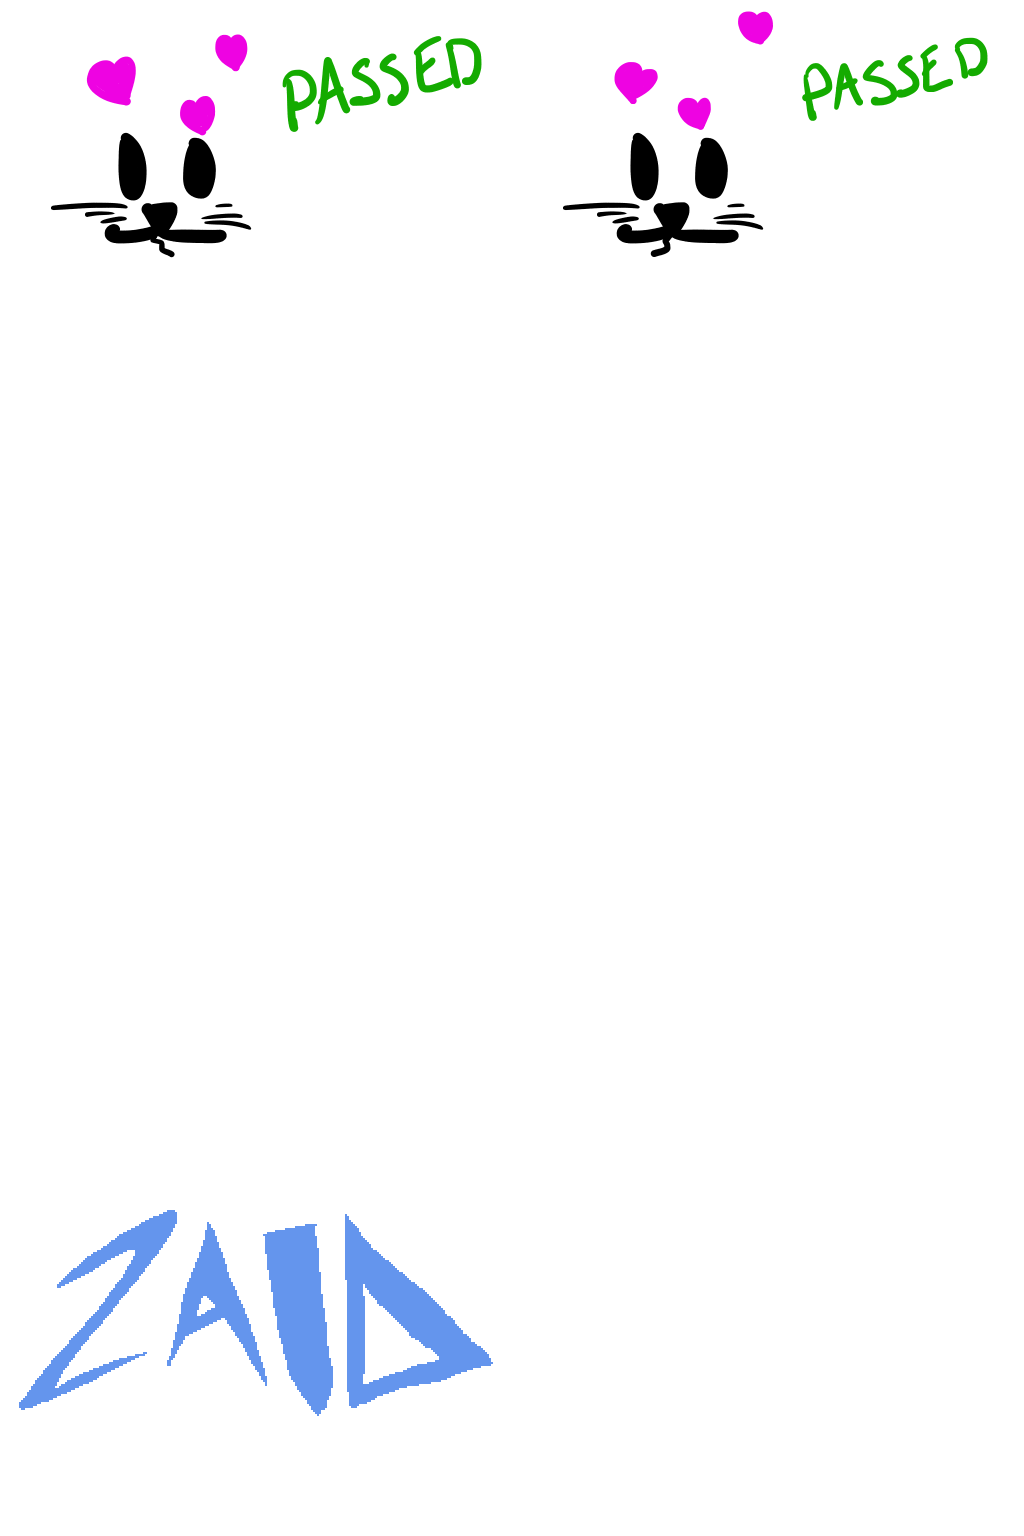
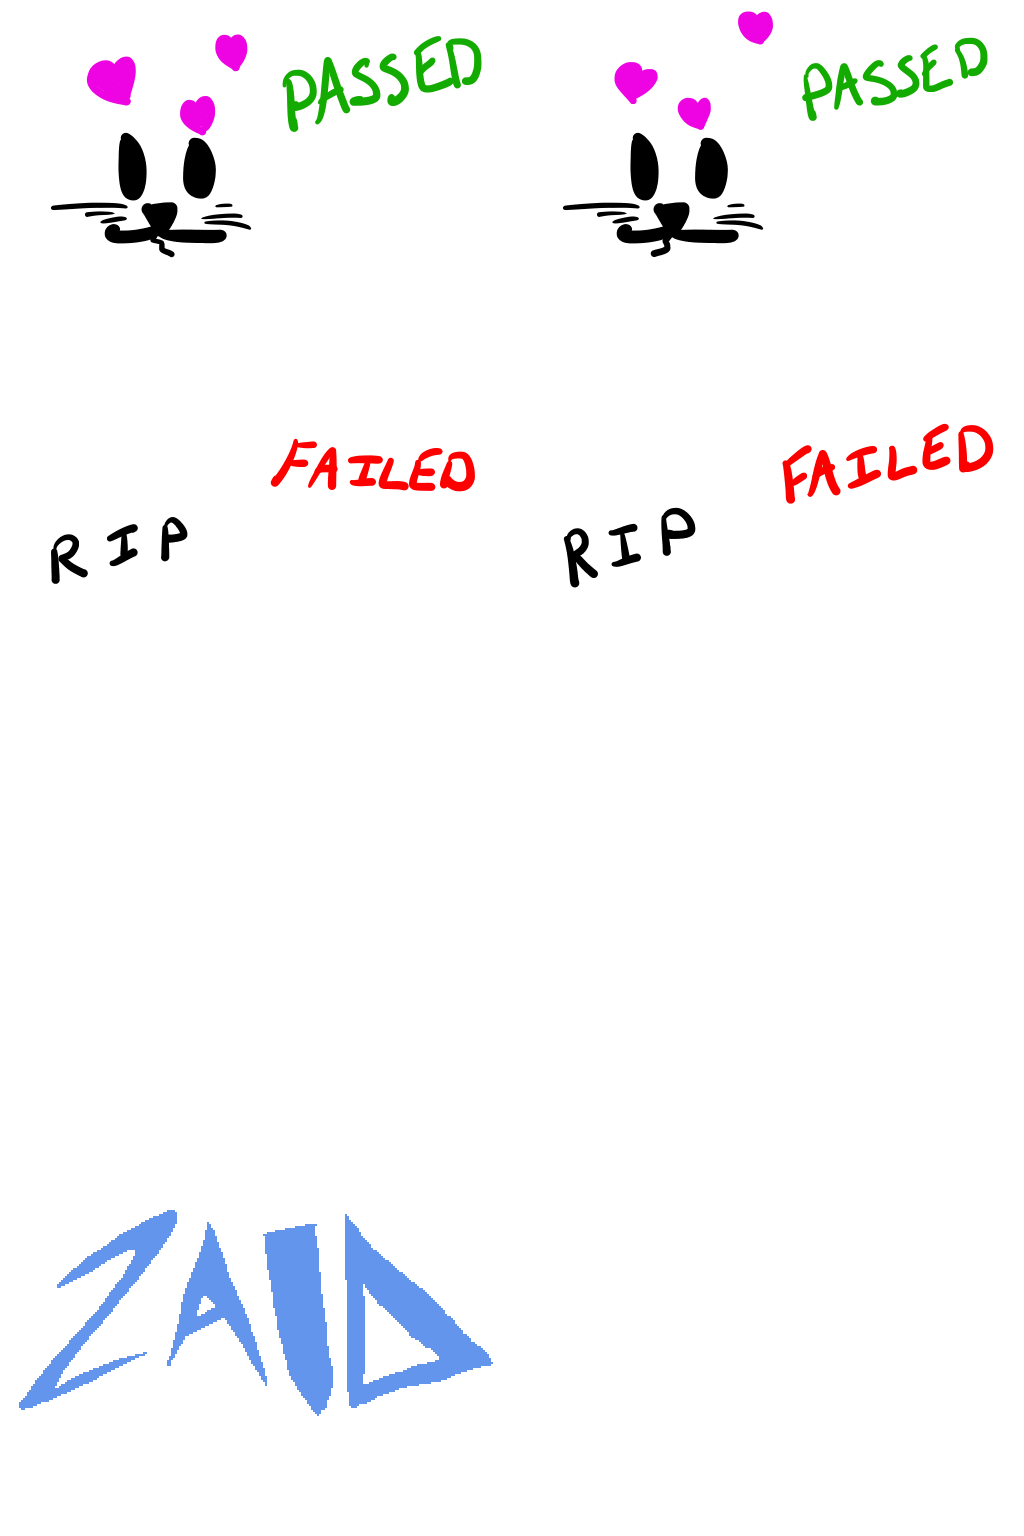
Added a level failed screen and seperated input into own file.

diff --git a/src/level.js b/src/level.js
@@ -15,6 +15,7 @@ function clearLevel(){
 
 function loadLevel(_dat = []){
   moveCounter = 0;
+  mode = modes.LEVEL;
 
   var posIter = [0, 0];
   for(var i = 0; i < _dat.length; i++){
@@ -70,7 +71,6 @@ function drawLevel(){
 // Draw the level passed screen
 function drawPassed(){
   if(!pics[1]){ return; }
-
   var pic = pictures.PASSED;
 
   // Detemine the grade
@@ -91,7 +91,7 @@ function drawPassed(){
     0, 0, CANVAS_SIZE[0], CANVAS_SIZE[1]
   );
 
-  if(drawBop){ drawText("[press a key]", 310, 300, "left", "#bbb"); }
+  if(drawBop){ drawText("[press a key]", 310, 300, "left"); }
 
   drawText("Moves: " + String(moveCounter) + "/" + String(tmp_level.par), 310, 190);
   drawText("Grade:", 310, 240);
@@ -103,4 +103,23 @@ function drawPassed(){
     gradeX*TILE_SIZE, grade[1]*TILE_SIZE, TILE_SIZE, TILE_SIZE,
     390, 220, TILE_SIZE, TILE_SIZE
   );
+}
+
+// Draw the level failed screen
+function drawFailed(){
+  if(!pics[1]){ return; }
+  var pic = pictures.FAILED;
+
+  // Select the alternate picture when 2nd image flag is raised
+  var picX = pic[0];
+  if(drawBop){ picX++; }
+
+  // Draw the picture for the title
+  context.drawImage(pics[0],
+    picX*CANVAS_SIZE[0], pic[1]*CANVAS_SIZE[1], CANVAS_SIZE[0], CANVAS_SIZE[1],
+    0, 0, CANVAS_SIZE[0], CANVAS_SIZE[1]
+  );
+
+  if(drawBop){ drawText("[Press R to Restart]", 370, 290, "center"); }
+  else{ drawText("[Press E to Quit]", 365, 320, "center"); }
 }

diff --git a/src/main.js b/src/main.js
@@ -41,27 +41,6 @@ $(function(){
   loadLevel(tmp_level.data);
 });
 
-// Handle keyboard input
-$(document).on("keypress", function(e){
-  switch(mode){
-    case modes.LEVEL:
-      // Reset the level - R
-      if(e.which == 114){ clearLevel(); loadLevel(tmp_level.data); }
-
-      // WASD movement
-      if(e.which == 119){ moveCatNRat(dir.UP); }    // W
-      if(e.which ==  97){ moveCatNRat(dir.LEFT); }  // A
-      if(e.which == 115){ moveCatNRat(dir.DOWN); }  // S
-      if(e.which == 100){ moveCatNRat(dir.RIGHT); } // D
-      break;
-    case modes.LOGO:
-      mode = modes.LEVEL;
-      break;
-  }
-
-  draw();
-});
-
 function drawText(_text, _x, _y, _align = "left", _color = "white"){
   _text = _text.split("").join(String.fromCharCode(8201));
   context.fillStyle = _color;
@@ -91,6 +70,9 @@ function draw(){
       break;
     case modes.PASSED:
       drawPassed();
+      break;
+    case modes.FAILED:
+      drawFailed();
       break;
   }
 }

diff --git a/src/input.js b/src/input.js
@@ -1,0 +1,24 @@
+// Handle keyboard input
+$(document).on("keypress", function(e){
+  switch(mode){
+    case modes.LEVEL:
+      // Reset the level - R
+      if(e.which == 114){ clearLevel(); loadLevel(tmp_level.data); }
+
+      // WASD movement
+      if(e.which == 119){ moveCatNRat(dir.UP); }    // W
+      if(e.which ==  97){ moveCatNRat(dir.LEFT); }  // A
+      if(e.which == 115){ moveCatNRat(dir.DOWN); }  // S
+      if(e.which == 100){ moveCatNRat(dir.RIGHT); } // D
+      break;
+    case modes.LOGO:
+      mode = modes.LEVEL;
+      break;
+    case modes.FAILED:
+      // Reset the level - R
+      if(e.which == 114){ clearLevel(); loadLevel(tmp_level.data); }
+      break;
+  }
+
+  draw();
+});

diff --git a/src/player.js b/src/player.js
@@ -68,6 +68,9 @@ function moveCatNRat(_dir){
   if(!halt[0] || !halt[1]){ moveCounter++; }
 
   // Kill the cat and rat
-  if(kill[0]){ cat = undefined; console.log("GAME OVER! CAT DIED T_T"); }
-  if(kill[1]){ rat = undefined; console.log("GAME OVER! RAT DIED Y_Y"); }
+  if(kill[0] || kill[1]){
+    cat = undefined;
+    rat = undefined;
+    mode = modes.FAILED;
+  }
 }

diff --git a/src/menu.js b/src/menu.js
@@ -9,5 +9,5 @@ function drawLogo(){
   );
 
   drawText("More @ http://zaid.games", 256, 310, "center");
-  if(drawBop){drawText("[press a key]", 256, 350, "center", "#bbb");}
+  if(drawBop){drawText("[press a key]", 256, 350, "center");}
 }

diff --git a/index.html b/index.html
@@ -11,6 +11,7 @@
   <script src="src/menu.js"></script>
   <script src="src/level.js"></script>
   <script src="src/player.js"></script>
+  <script src="src/input.js"></script>
   <script src="src/main.js"></script>
 
 <style>

diff --git a/src/constants.js b/src/constants.js
@@ -29,6 +29,7 @@ const sprites = {
 
 const pictures = {
   PASSED: [0, 0],
+  FAILED: [0, 1],
   ZAID: [0, 3]
 }
 

diff --git a/README.md b/README.md
@@ -18,7 +18,7 @@ A game I'm making for no reason.
 * [ ] __Title__: The title screen. Just to be cute and so you know what game you're playing.
 * [ ] __Level Select__: Allows you to select a level to play. Shows you what levels are locked and passed and what grade you got on the passed levels.
 * [X] __Passed__: A cute screen for when you pass a level and what grade you got on it.
-* [ ] __Failed__: Another cute screen for when you failed a level encouraging the player to try again.
+* [X] __Failed__: Another cute screen for when you failed a level encouraging the player to try again.
 * [ ] __Winner__: A third cute screen for when you've won the game.
 
 ### Dependencies
